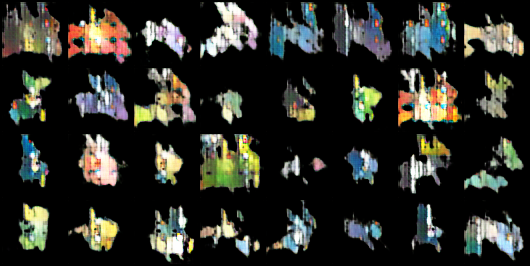
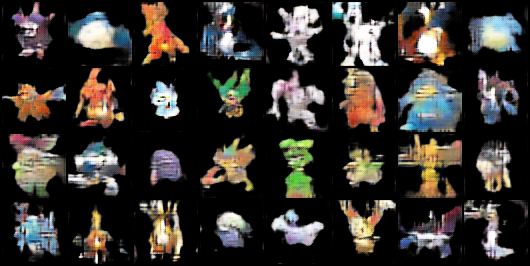
Cleaned up garbage imports and added to README.md

diff --git a/src/main.py b/src/main.py
@@ -99,6 +99,7 @@ for epoch in range(1, num_epochs + 1):
 
     list_loss_disc.append(loss_critic.item())
     list_loss_gen.append(loss_gen.item())
+    plot_loss(list_loss_disc, list_loss_gen, lr, critic_it)
 
     if epoch % 10 == 0:
         logger.end_log(epoch_start_time, f'Epoch [{epoch}/{num_epochs}]\
@@ -122,5 +123,3 @@ for epoch in range(1, num_epochs + 1):
 logger.end_log(train_start_time, f'Finished training model\
     Epoch [{epoch}/{num_epochs}]')
 torch.save(net_gen.state_dict(), 'model.pt')
-plot_loss(list_loss_disc, list_loss_gen, lr, critic_it)
-

diff --git a/src/img_process.py b/src/img_process.py
@@ -1,8 +1,5 @@
 import os
-import cv2
-import torch
 from tqdm import tqdm
-import datetime
 from PIL import Image
 import warnings
 import logger
@@ -22,10 +19,3 @@ def load_dataset(path, transforms):
             dataset.append((image, 0))
     logger.start_log(f'Loaded {len(dataset)} files from {path}')
     return dataset
-
-
-def save_dataset(dataset, path):
-    size = dataset.shape[0]
-    for i in range(size):
-        image = np.asarray(dataset[i]).reshape((32, 32, 3)) * 255
-        cv2.imwrite(path + 'fake' + str(i) + '.png', image)

diff --git a/src/utils.py b/src/utils.py
@@ -1,6 +1,4 @@
-from types import new_class
 import torch
-import torch.nn as nn
 import sys
 import select
 

diff --git a/README.md b/README.md
@@ -9,4 +9,13 @@
 
 
 ## About
-This project was inspired by the *pokeGAN* created by Siraj Raval.
+This project is a Wasserstein Generative Adversarial Network with Gradient Penalty (WGAN-GP) which is able to generate images of Pokemon which do not actually exist. The network was trained on 721 images of real Pokemon from <a href="https://www.kaggle.com/datasets/vishalsubbiah/pokemon-images-and-types">this</a> online dataset. 
+
+This project was inspired by the *pokeGAN* and subsequent <a href="https://www.youtube.com/watch?v=yz6dNf7X7SA&t">Youtube video</a> created by Siraj Raval.
+
+## Dependencies
+- pytorch
+- torchvision
+- tqdm
+- numpy
+- matplotlib
